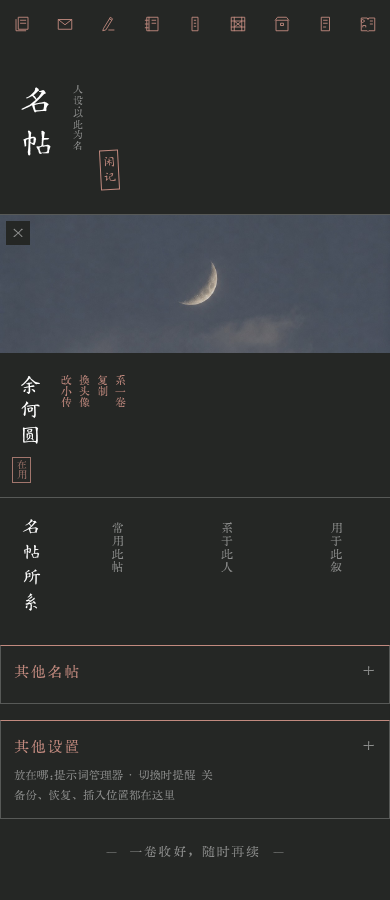
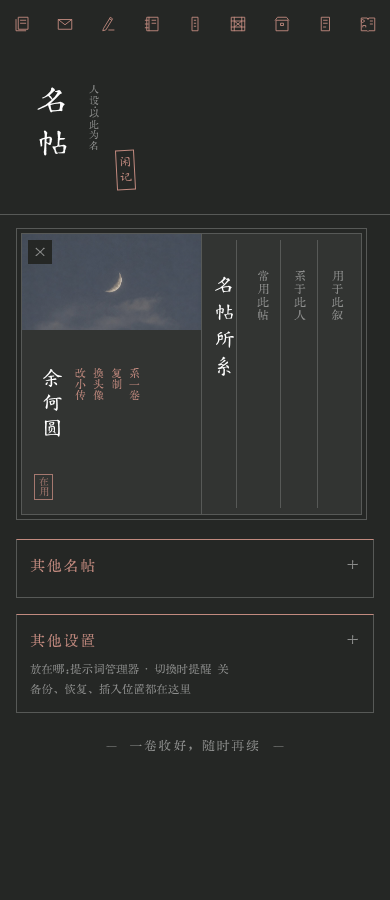
fix: preserve annotated persona columns in a shared frame

diff --git a/assets/folio/folio.css b/assets/folio/folio.css
@@ -5,7 +5,7 @@ html.sb-bar.sb-folio{--sb-bar-line:color-mix(in srgb,var(--sb-bar-ink) 23%,var(-
 html.sb-bar.sb-folio .sb-page{font-family:var(--sb-type-body)!important;font-size:12px!important;min-width:0;box-sizing:border-box}
 html.sb-bar.sb-folio :is(button,input,textarea,select){text-shadow:none!important;box-shadow:none}
 html.sb-bar.sb-folio .sb-head{position:relative;height:155px;min-height:155px;padding:22px 0!important;margin-bottom:16px!important;flex:none}
-html.sb-bar.sb-folio .sb-head:after{content:'';position:absolute;left:0;right:0;bottom:0;border-bottom:1px solid var(--sb-bar-line)}
+html.sb-bar.sb-folio .sb-head:after{content:'';position:absolute;left:-16px;right:-16px;bottom:0;border-bottom:1px solid var(--sb-bar-line)}
 html.sb-bar.sb-folio .sb-head .sb-script{position:absolute;left:18px;top:22px;height:120px;width:36px;writing-mode:vertical-rl;text-orientation:upright;white-space:nowrap;font:32px/1.1 var(--sb-type-script)!important;letter-spacing:2px!important;color:var(--sb-bar-ink)!important;text-align:start!important}
 html.sb-bar.sb-folio .sb-head .sb-en{display:none!important}
 html.sb-bar.sb-folio .sb-head .sb-zh{position:absolute;left:71px;top:25px;writing-mode:vertical-rl;white-space:nowrap;font:10px/1.3 var(--sb-type-body)!important;letter-spacing:.5px!important;max-height:120px;color:var(--sb-bar-sub)!important;margin:0!important}
@@ -136,26 +136,24 @@ html.sb-bar.sb-folio #rm_print_characters_block .character_select .ch_descriptio
 html.sb-bar.sb-folio #rm_print_characters_block .character_select .ch_additional_info{display:none}
 html.sb-bar.sb-folio #rm_print_characters_block .character_select:after{content:'相见';position:absolute;right:16px;bottom:15px;writing-mode:vertical-rl;font:11px var(--sb-type-body);color:var(--sb-bar-accent);padding:0}
 html.sb-bar.sb-folio .sb-favrow img{width:54px;height:54px}
-/* A single full-bleed persona post: image, identity/actions, and binding section. */
-html.sb-bar.sb-folio .sb-page.drawer-content{padding-left:0!important;padding-right:0!important}
-html.sb-bar.sb-folio #PersonaManagement>.sb-head{margin-bottom:0!important}
-html.sb-bar.sb-folio #PersonaManagement .sb-folio-persona-post{width:100%;margin:0;padding:0;background:var(--sb-bar-bg);box-sizing:border-box}
-html.sb-bar.sb-folio #PersonaManagement .sb-member{width:100%;max-width:none;margin:0;display:block}
-html.sb-bar.sb-folio #PersonaManagement .sb-mc{position:relative;display:block;height:282px;width:100%;padding:0;border:0;outline:0;border-radius:0;background:var(--sb-bar-bg);box-sizing:border-box}
-html.sb-bar.sb-folio #PersonaManagement .sb-mc>img{position:absolute;left:0;top:0;display:block;width:100%;height:138px;aspect-ratio:auto;border:0;border-radius:0;object-fit:cover}
-html.sb-bar.sb-folio #PersonaManagement .sb-mc-r{position:absolute;left:18px;top:158px;bottom:40px;max-width:24px;width:24px;padding:0;text-align:start}
+/* Preserve the compact two-column layout inside one continuous post. */
+html.sb-bar.sb-folio #PersonaManagement .sb-folio-persona-post{display:grid;grid-template-columns:179fr 160fr;width:341px;max-width:calc(100% - 10px);height:282px;margin:18px 5px 24px;padding:0;border:1px solid var(--sb-bar-line);outline:1px solid var(--sb-bar-line);outline-offset:4px;background:color-mix(in srgb,var(--sb-bar-bg) 94%,var(--sb-bar-ink));box-sizing:border-box}
+html.sb-bar.sb-folio #PersonaManagement .sb-member{width:100%;min-width:0;max-width:none;margin:0;display:block;background:inherit}
+html.sb-bar.sb-folio #PersonaManagement .sb-mc{position:relative;display:block;height:280px;width:100%;padding:0;border:0;outline:0;border-radius:0;background:inherit;box-sizing:border-box}
+html.sb-bar.sb-folio #PersonaManagement .sb-mc>img{position:absolute;left:0;top:0;display:block;width:100%;height:96px;aspect-ratio:auto;border:0;border-radius:0;object-fit:cover}
+html.sb-bar.sb-folio #PersonaManagement .sb-mc-r{position:absolute;left:18px;top:132px;bottom:40px;max-width:24px;width:24px;padding:0;text-align:start}
 html.sb-bar.sb-folio #PersonaManagement .sb-mc-name{writing-mode:vertical-rl;text-orientation:mixed;font:20px/1.2 var(--sb-type-script)!important;max-height:100%;max-width:24px;white-space:nowrap;overflow:hidden;text-overflow:ellipsis;text-align:start}
 html.sb-bar.sb-folio #PersonaManagement .sb-mc-foot{position:absolute;bottom:16px;right:16px;display:block;width:auto;margin:0;padding:0;border:0;font:10px/1.3 var(--sb-type-body)}
 html.sb-bar.sb-folio #PersonaManagement .sb-card-remove{left:6px;right:auto;top:6px;background:var(--sb-bar-bg)}
 html.sb-bar.sb-folio #PersonaManagement :is(.sb-mc-desc,.sb-mc-since,.sb-mc-no){display:none}
 html.sb-bar.sb-folio #PersonaManagement .sb-mc-use{font-size:0;position:absolute;left:12px;bottom:14px;top:auto;right:auto;border:1px solid var(--sb-bar-accent);padding:2px;writing-mode:vertical-rl;color:var(--sb-bar-accent)}
 html.sb-bar.sb-folio #PersonaManagement .sb-mc-use:after{content:'在用';font:10px var(--sb-type-body)}
-html.sb-bar.sb-folio #PersonaManagement .sb-acts{position:absolute;left:62px;right:12px;top:160px;bottom:auto;height:104px;display:flex;justify-content:flex-start;align-items:flex-start;gap:6px;flex-wrap:nowrap;margin:0}
+html.sb-bar.sb-folio #PersonaManagement .sb-acts{position:absolute;left:54px;right:12px;top:134px;bottom:auto;height:104px;display:flex;justify-content:flex-start;align-items:flex-start;gap:6px;flex-wrap:nowrap;margin:0}
 html.sb-bar.sb-folio #PersonaManagement .sb-acts button{font:400 11px/1.4 var(--sb-type-body)!important;writing-mode:vertical-rl;text-align:start;flex:0 0 12px;width:12px;height:104px;background:none;border:0;margin:0;padding:0;color:var(--sb-bar-accent)}
-html.sb-bar.sb-folio #PersonaManagement .sb-folio-scope-card{position:relative;width:100%;height:132px;margin:0;padding:0;border:0;border-top:1px solid var(--sb-bar-line);outline:0;background:var(--sb-bar-bg);box-sizing:border-box}
-html.sb-bar.sb-folio #PersonaManagement .sb-folio-persona-scope-title{position:absolute;left:18px;top:18px;bottom:18px;width:24px;writing-mode:vertical-rl;white-space:nowrap;font:18px/1.2 var(--sb-type-script);color:var(--sb-bar-ink);letter-spacing:2px}
-html.sb-bar.sb-folio #PersonaManagement .sb-folio-scope-card .sb-use{position:absolute;inset:0 0 0 62px;width:auto;display:grid;grid-template-columns:repeat(3,minmax(0,1fr));gap:0;margin:0;padding:0}
-html.sb-bar.sb-folio #PersonaManagement .sb-use button{display:flex;flex-direction:row;justify-content:flex-start;align-items:center;writing-mode:vertical-rl;text-orientation:mixed;font:13px/1.4 var(--sb-type-body);padding:24px 0 0;margin:0;border:0;border-radius:0;white-space:nowrap;color:var(--sb-bar-sub)}
+html.sb-bar.sb-folio #PersonaManagement .sb-folio-scope-card{position:relative;width:100%;min-width:0;height:280px;margin:0;padding:0;border:0;border-left:1px solid var(--sb-bar-line);outline:0;background:inherit;box-sizing:border-box}
+html.sb-bar.sb-folio #PersonaManagement .sb-folio-persona-scope-title{position:absolute;left:10px;top:6px;bottom:6px;width:25px;padding-top:33px;border-right:1px solid var(--sb-bar-line);box-sizing:border-box;writing-mode:vertical-rl;white-space:nowrap;font:20px/1.2 var(--sb-type-script);color:var(--sb-bar-ink);letter-spacing:2px}
+html.sb-bar.sb-folio #PersonaManagement .sb-folio-scope-card .sb-use{position:absolute;inset:6px 6px 6px 42px;width:auto;display:grid;grid-template-columns:repeat(3,minmax(0,1fr));gap:0;margin:0;padding:0}
+html.sb-bar.sb-folio #PersonaManagement .sb-use button{display:flex;flex-direction:row;justify-content:flex-start;align-items:center;writing-mode:vertical-rl;text-orientation:mixed;font:13px/1.4 var(--sb-type-body);padding:30px 0 0;margin:0;border:0;border-right:1px solid var(--sb-bar-line);border-radius:0;white-space:nowrap;color:var(--sb-bar-sub)}
 html.sb-bar.sb-folio #PersonaManagement .sb-use button:last-child{border-right:0}
 html.sb-bar.sb-folio #PersonaManagement .sb-use button.on{color:var(--sb-bar-accent);background:none}
 html.sb-bar.sb-folio #PersonaManagement:not(.sb-open-more) .sb-folio-persona-more{display:none!important}

diff --git a/docs/folio-review-fixes.md b/docs/folio-review-fixes.md
@@ -11,11 +11,11 @@
 - 装帧：小吧台及美化标题字体随样式切换；小调色盘在页面下方实时预览背景，取消恢复原色，确认才通过原保存流程写入。拦截调色操作的外部点击，保留当前设置页和滚动位置。所有分组使用闭合细框。
 - 借景：标题、工具栏和图片在同一滚动区域内；保留原菜单与回到顶部操作。
 - 百工匣：修复两个入口的白色焦点框与点击区域溢出，键盘焦点使用主题色提示；下方分组补齐四边，原生 details 包裹时避免双层框。
-- 名帖：统一为无外侧留白的一张通栏帖子，上方长方形头像封面占整帖约三分之一，下方姓名与操作紧凑竖排；“名帖所系”接在同一帖子下方，底色完全相同，只以一条横线分隔；关联世界书显示为“系一卷”；其他设置从标题下方展开。三个范围显示“常用此帖／系于此人／用于此叙”，分别对应原生默认人设、当前角色、当前聊天的锁定按钮。各设置页移除外侧横向留白。
+- 名帖：保留原来的左右布局与紧凑尺寸，合为同底色、同外框的一张帖子；左侧上方长方形头像占约三分之一，下方姓名与操作紧凑竖排；右侧仍是“名帖所系”及三个等距竖栏，两侧没有间隙，只以一条竖线分隔；关联世界书显示为“系一卷”；其他设置从标题下方展开。三个范围显示“常用此帖／系于此人／用于此叙”，分别对应原生默认人设、当前角色、当前聊天的锁定按钮。其他页面保留原有页边距。
 
 ## 本地审阅图
 
-[名帖通栏单帖排版](folio-runtime/persona-single-post.png)使用仓库现有示例图演示比例；实际使用当前人设头像，不替换用户图片。[小调色盘实时预览](folio-runtime/appearance-live-picker.png)展示停留在装帧页调色。
+[名帖左右单帖排版](folio-runtime/persona-single-post.png)使用仓库现有示例图演示比例；实际使用当前人设头像，不替换用户图片。[小调色盘实时预览](folio-runtime/appearance-live-picker.png)展示停留在装帧页调色。
 
 ## 验证
 
